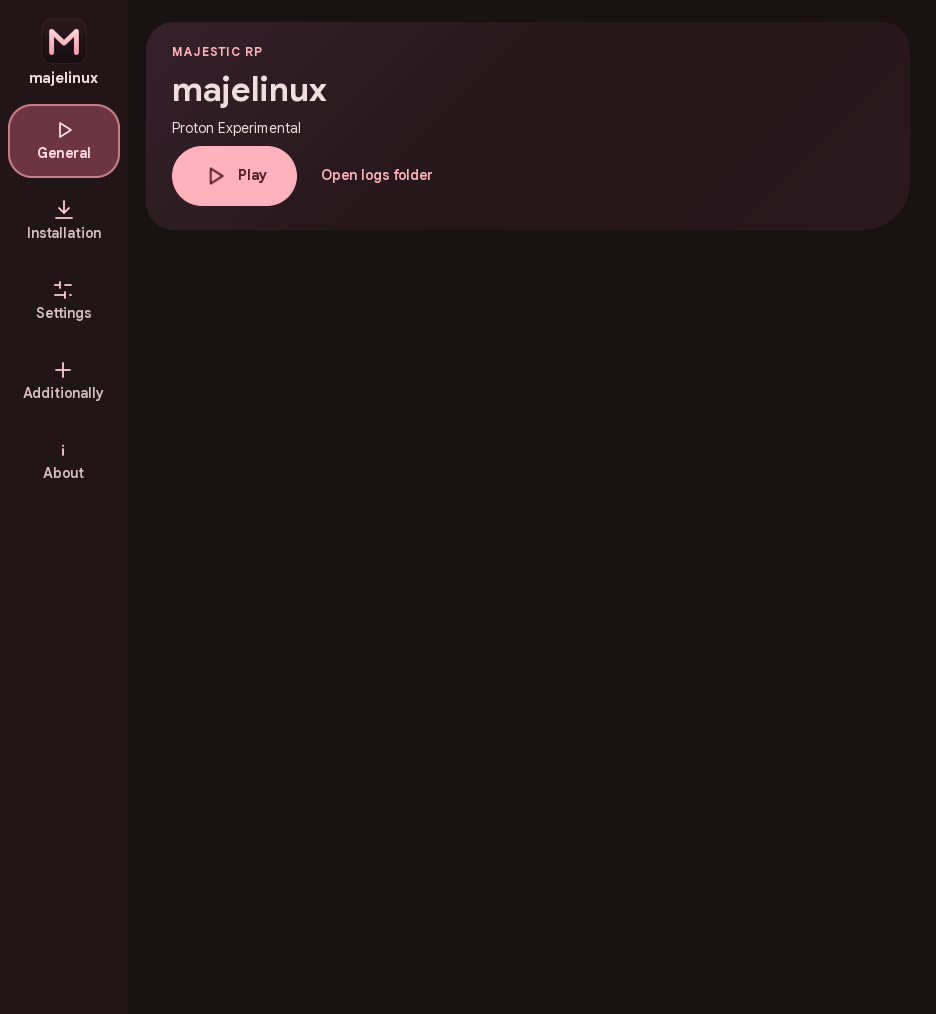
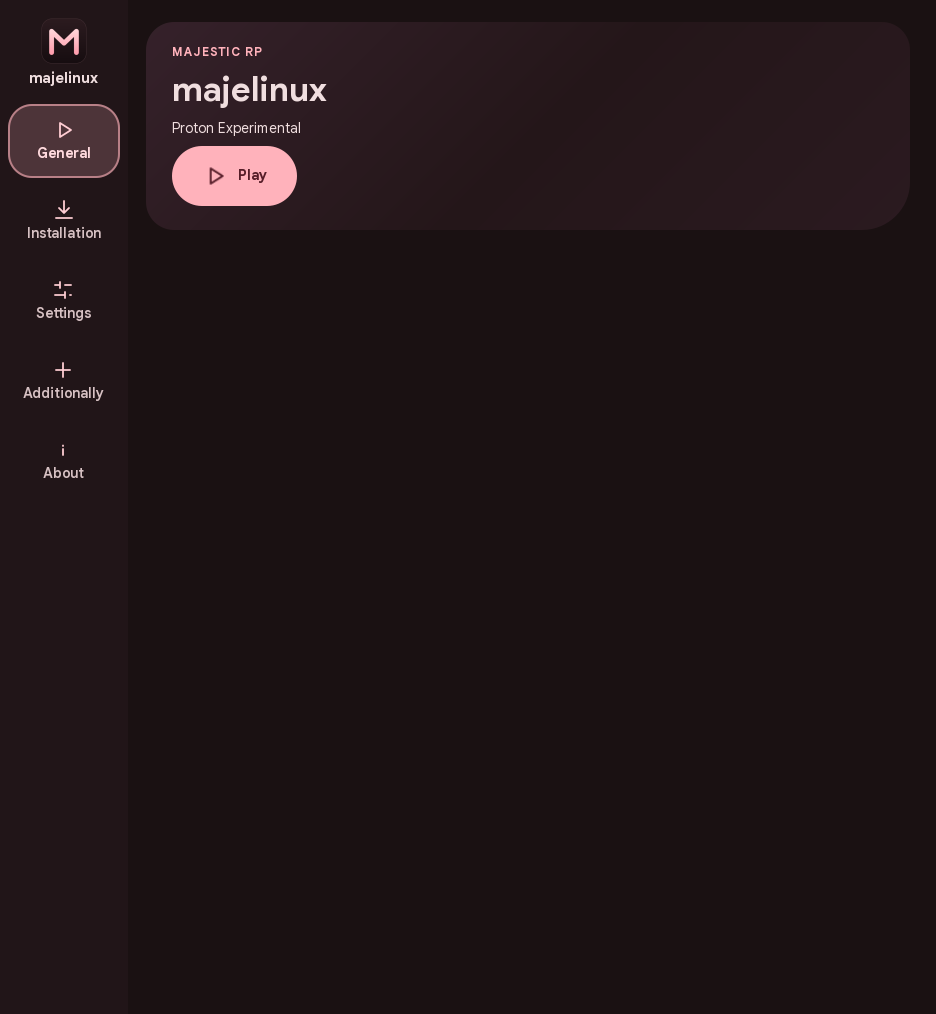
feat: remove log button from general page

Changed region(s): [[0.0, 0.0917, 0.1239, 0.1834], [0.3408, 0.1529, 0.4647, 0.1834]]

diff --git a/src/ui/mod.rs b/src/ui/mod.rs
@@ -206,7 +206,6 @@ struct GeneralWidgets {
     page: W,
     play: W,
     play_label: W,
-    logs: W,
     note: W,
     sub: W,
 }
@@ -726,10 +725,7 @@ fn build_general() -> GeneralWidgets {
         let play_label = label(&t("btn.play"), "");
         pack(play_box, play_label, false);
         gtk_container_add(play, play_box);
-        let logs = button_label(&t("btn.open_logs"));
-        style(logs, "text-button");
         pack(actions, play, false);
-        pack(actions, logs, false);
 
         pack(hero, eyebrow, false);
         pack(hero, title, false);
@@ -743,7 +739,6 @@ fn build_general() -> GeneralWidgets {
             page,
             play,
             play_label,
-            logs,
             note,
             sub,
         }
@@ -1154,12 +1149,6 @@ impl App {
                 self.general.play,
                 "clicked",
                 play_click as *const std::ffi::c_void,
-                data,
-            );
-            connect(
-                self.general.logs,
-                "clicked",
-                logs_click as *const std::ffi::c_void,
                 data,
             );
             connect(
@@ -1681,7 +1670,6 @@ impl App {
             {
                 gtk_button_set_label(self.nav[index], c(&t(key)).as_ptr());
             }
-            gtk_button_set_label(self.general.logs, c(&t("btn.open_logs")).as_ptr());
             set_text(self.installer.title, &t("nav.install"));
             set_text(self.installer.desc, &t("install.desc"));
             gtk_button_set_label(self.installer.copy_log, c(&t("btn.copy_log")).as_ptr());

diff --git a/README.ru.md b/README.ru.md
@@ -185,7 +185,7 @@ cargo build --release
 
 | Страница | Назначение |
 | --- | --- |
-| **Главная** | Запуск игры, текущий статус, открытие папки логов |
+| **Главная** | Запуск игры и текущий статус |
 | **Установка** | Семь шагов установки, список пакетов и живой лог |
 | **Настройки** | Язык интерфейса, выбор Proton, свои папки Proton, аргументы лаунчера |
 | **Дополнительно** | Режим отладки с отдельным окном лога |

diff --git a/README.md b/README.md
@@ -185,7 +185,7 @@ Changing the Proton mapping requires Steam to be closed. majelinux closes Steam,
 
 | Page | Purpose |
 | --- | --- |
-| **General** | Starts the game, shows the current state, and opens the log folder |
+| **General** | Starts the game and shows the current state |
 | **Installation** | Runs the seven installation steps, shows package requirements and live logs |
 | **Settings** | Interface language, Proton selection, custom Proton folders, launcher arguments |
 | **Additionally** | Debug mode with a live log window |
